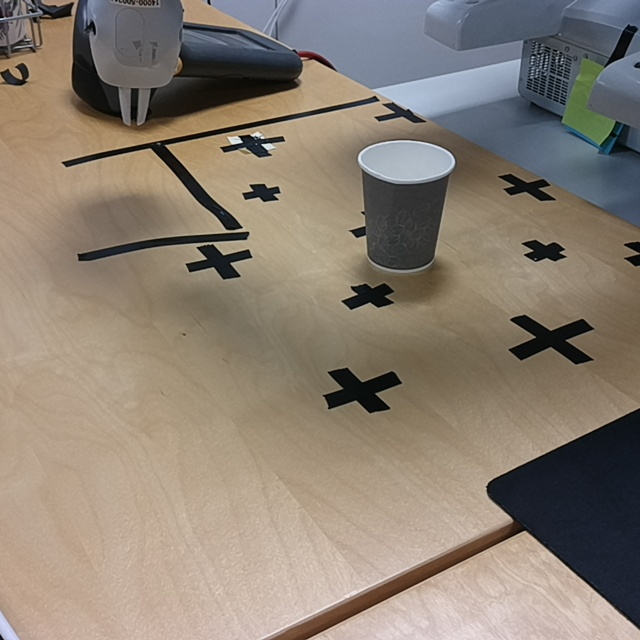
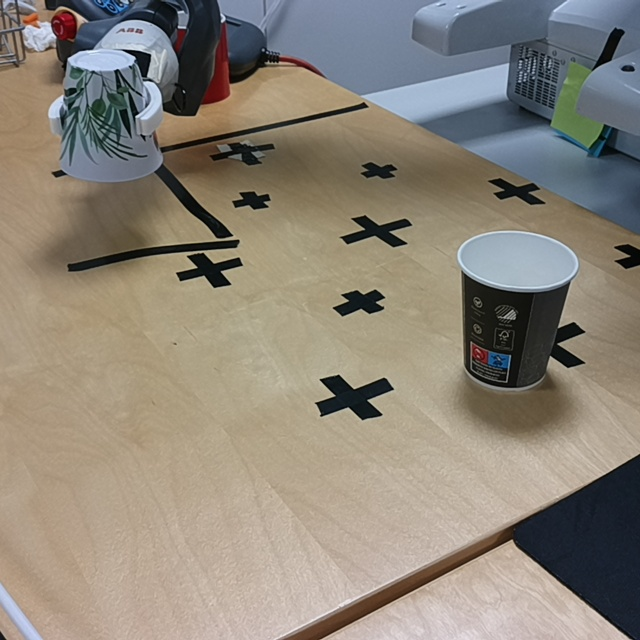
updated main to let me test without robot

diff --git a/main_test_protocol.py b/main_test_protocol.py
@@ -83,8 +83,8 @@ def extract_data(file):
 
 #==================================== CAMERA & COMMUNICATION SETUP ====================================
 
-client = CupPickingClient()
-client.connect()
+#client = CupPickingClient()
+#client.connect()
 camera_points = extract_data(cam_coords) # Get coordinates from the camera 
 robot_points = extract_data(robot_file) # Get coordinats from the robot (both .txt files)
 rotation_matrix, translation_vector = estimate_rigid_transform(camera_points, robot_points) # Do an estimation from both the 3d robot and camera coordinates to get rotation matrix and translation vector
@@ -187,8 +187,8 @@ with dai.Device(pipeline) as device:
     prev_coord = [[1,1,1]] # Temporary starting x,y,z coordinates to compare with
     obj_list = []
     
-    while True:
-
+    #while True:
+    while count < 5: # Limit to 5 picks for testing purposes
         in_rgb   = q_rgb.get() # latest RGB frame
         in_depth = q_depth.get() # latest depth frame (aligned to RGB)
         in_dets  = q_det.get() # latest detection results
@@ -249,11 +249,11 @@ with dai.Device(pipeline) as device:
 
                         temp_coords = obj_list.pop(0)
                         start_time = time.time()
-                        client.move_cup_test(temp_coords, quaternion)
+                        #client.move_cup_test(temp_coords, quaternion)
 
-                        rob_coords = client.get_coords()
-
-                        client.leave_cup()
+                        #rob_coords = client.get_coords()
+                        rob_coords = [temp_coords[0]+10, temp_coords[1]+10, temp_coords[2]] # Dummy robot coordinates for testing without robot
+                        #client.leave_cup()
                         end_time = time.time()
                         process_time = end_time - start_time
                         if save_protocol:
